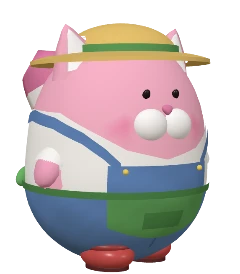
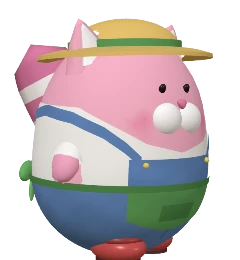
웹 Skia 에러 수정, 핑옹이 걷기 끊김·절뚝임 수정
[웹에서 Skia 에러 (RuntimeEffect / MakeImageFromEncoded) 수정]
- index.web.ts (새 파일): 웹 시작점. Skia 엔진(public/canvaskit.wasm)을 먼저 불러온 뒤 앱(expo-router/entry)을 불러옴. Skia는 처음 불러와질 때 엔진에 묶이므로 _layout에서 불러오면 늦어서 에러가 났음
- index.ts (새 파일): 휴대폰 시작점. 바로 expo-router/entry 실행
- package.json: main을 expo-router/entry → index 로 변경
- src/app/_layout.tsx: 지난번에 넣은 Skia 불러오기 제거, 글꼴만 기다리도록 원래대로
- src/lib/loadSkia.ts, src/lib/loadSkia.web.ts: 삭제 (index.web.ts로 대체)
- src/components/illustrations/SwayingFlower.tsx: 바람 셰이더를 파일 불러올 때가 아니라 처음 그릴 때 한 번만 만들도록 변경

[핑옹이 걷기 끊김 수정]
- src/components/WalkingPingongi.tsx: 이동과 걷기 그림 넘기기를 하나의 Reanimated 시계로 UI 스레드에서 처리 (전에는 그림 넘기기를 JS 타이머로 따로 돌려 박자가 어긋났음)
- src/components/WalkingPingongi.tsx: 출발·도착 감속을 없애고 일정한 속도로 이동 (걸음 속도와 맞지 않아 발이 미끄러져 보였음)
- assets/images/pingong/walk/f00~f29.webp: 걷기 그림 16장 → 30장 (초당 30장)

[핑옹이 절뚝임 수정]
- assets/images/pingong/walk/f00~f29.webp: 다시 렌더. 몸통의 앞뒤·좌우 쏠림과 좌우로 도는 움직임 제거, 30장 모두 머리 위치를 맞춤, 방향 45°, 240×260
- src/components/WalkingPingongi.tsx: 새 그림 비율(260/240)과 크기 배율(1.35)로 조정
- src/components/WalkingPingongi.tsx: 애니메이션 시계를 항상 0부터 다시 시작하고 화면을 떠날 때 멈춤 (코드가 다시 불러와질 때 이전 값에서 이어져 제자리에서 방향만 바뀌던 문제)

Changed region(s): [[0.0583, 0.0615, 0.9042, 1.0], [0.2333, 0.8923, 0.2917, 0.9231], [0.2042, 0.8615, 0.2333, 0.8923]]

diff --git a/src/components/WalkingPingongi.tsx b/src/components/WalkingPingongi.tsx
@@ -1,12 +1,14 @@
 import { Image } from 'expo-image';
-import { useEffect, useRef, useState } from 'react';
-import { StyleSheet, View } from 'react-native';
-import Animated, { Easing, useAnimatedStyle, useSharedValue, withRepeat, withTiming } from 'react-native-reanimated';
+import { useEffect } from 'react';
+import { StyleSheet } from 'react-native';
+import Animated, { cancelAnimation, Easing, SharedValue, useAnimatedStyle, useSharedValue, withRepeat, withTiming } from 'react-native-reanimated';
 
 import { size as sizes } from '@/theme/theme';
 
 /**
- * 걷기 프레임 16장 — 3D 모델(pingong_gc.glb)의 Walk 동작(1초)을 오른쪽 3/4 방향으로 렌더.
+ * 걷기 프레임 30장(초당 30장) — 3D 모델(pingong_gc.glb)의 Walk 동작(1초)을 오른쪽 45° 방향으로 렌더.
+ * 몸통의 앞뒤 쏠림과 좌우로 도는 움직임을 없애고 머리 위치를 프레임마다 맞춰서,
+ * 절뚝이거나 뒤돌아보는 것처럼 보이지 않고 일정하게 걸어 보이게 했어요.
  * 왼쪽으로 걸을 때는 좌우 반전해서 씁니다.
  */
 const FRAMES = [
@@ -26,11 +28,25 @@ const FRAMES = [
   require('../../assets/images/pingong/walk/f13.webp'),
   require('../../assets/images/pingong/walk/f14.webp'),
   require('../../assets/images/pingong/walk/f15.webp'),
+  require('../../assets/images/pingong/walk/f16.webp'),
+  require('../../assets/images/pingong/walk/f17.webp'),
+  require('../../assets/images/pingong/walk/f18.webp'),
+  require('../../assets/images/pingong/walk/f19.webp'),
+  require('../../assets/images/pingong/walk/f20.webp'),
+  require('../../assets/images/pingong/walk/f21.webp'),
+  require('../../assets/images/pingong/walk/f22.webp'),
+  require('../../assets/images/pingong/walk/f23.webp'),
+  require('../../assets/images/pingong/walk/f24.webp'),
+  require('../../assets/images/pingong/walk/f25.webp'),
+  require('../../assets/images/pingong/walk/f26.webp'),
+  require('../../assets/images/pingong/walk/f27.webp'),
+  require('../../assets/images/pingong/walk/f28.webp'),
+  require('../../assets/images/pingong/walk/f29.webp'),
 ];
-/** 프레임 이미지 세로/가로 비율 (240×274) */
-const FRAME_RATIO = 274 / 240;
+/** 프레임 이미지 세로/가로 비율 (240×260) */
+const FRAME_RATIO = 260 / 240;
 /** 프레임에는 몸이 흔들리는 여백이 있어서, 몸 크기가 정원 핑옹이 크기와 비슷해지도록 키우는 배율 */
-const FRAME_SCALE = 1.2;
+const FRAME_SCALE = 1.35;
 /** Walk 동작 한 바퀴 길이(ms) — 모델 원본과 같음 */
 const CLIP_MS = 1000;
 const FRAME_MS = CLIP_MS / FRAMES.length;
@@ -52,35 +68,23 @@ type Props = {
   groundY: number;
 };
 
-/** 지금 시각이 걷는 중인지와 이번 방향에서 지난 시간 */
-function phaseAt(elapsed: number) {
-  const time = elapsed % CYCLE;
-  const goingRight = time < LEG;
-  const legTime = goingRight ? time : time - LEG;
-  return { goingRight, legTime, walking: legTime < WALK_MS };
-}
-
 /**
  * 정원을 좌우로 천천히 걸어다니는 핑옹이.
- * 이동·방향 전환은 Reanimated로, 다리 움직임은 걷기 프레임을 넘겨서 보여줘요.
+ * 이동·방향 전환·프레임 넘기기를 모두 하나의 Reanimated 시계로 UI 스레드에서 처리해서
+ * 자바스크립트가 바빠도 끊기지 않고, 발걸음과 이동이 어긋나지 않아요.
  * 끝에 닿으면 잠깐 서 있다가 돌아서요. 터치는 통과시켜 뒤 식물을 누를 수 있어요.
  */
 export function WalkingPingongi({ width, height, fromX, toX, groundY }: Props) {
   const w = sizes.mascotGarden * FRAME_SCALE;
   const h = w * FRAME_RATIO;
   const t = useSharedValue(0);
-  const start = useRef(0);
-  const [frame, setFrame] = useState(0);
 
   useEffect(() => {
-    start.current = Date.now();
+    // 항상 0부터 다시 시작 — 코드가 다시 불러와질 때 이전 값에서 이어 돌면 제자리에서 방향만 바뀌는 문제가 생김
+    cancelAnimation(t);
+    t.value = 0;
     t.value = withRepeat(withTiming(CYCLE, { duration: CYCLE, easing: Easing.linear }), -1, false);
-    // 걷는 동안만 프레임을 넘기고, 쉬는 동안은 첫 프레임에 멈춰 서 있음
-    const id = setInterval(() => {
-      const { walking, legTime } = phaseAt(Date.now() - start.current);
-      setFrame(walking ? Math.floor(legTime / FRAME_MS) % FRAMES.length : 0);
-    }, FRAME_MS);
-    return () => clearInterval(id);
+    return () => cancelAnimation(t);
   }, [t]);
 
   const left = (fromX / 100) * width - w / 2;
@@ -91,19 +95,33 @@ export function WalkingPingongi({ width, height, fromX, toX, groundY }: Props) {
     const goingRight = time < LEG;
     const legTime = goingRight ? time : time - LEG;
     const p = legTime < WALK_MS ? legTime / WALK_MS : 1; // 이번 방향 진행률 0~1
-    const eased = p < 0.5 ? 2 * p * p : 1 - Math.pow(-2 * p + 2, 2) / 2; // 출발·도착 때 천천히
-    const x = (goingRight ? eased : 1 - eased) * span;
+    // 발걸음 속도가 일정하므로 이동도 일정한 속도로 (속도가 변하면 발이 미끄러져 보임)
+    const x = (goingRight ? p : 1 - p) * span;
     return { transform: [{ translateX: x }, { scaleX: goingRight ? 1 : -1 }] };
   });
 
   return (
     <Animated.View style={[styles.wrap, { left, top: (groundY / 100) * height - h, width: w, height: h }, style]}>
-      {/* 16장을 모두 겹쳐 두고 지금 프레임만 보이게 — 이미지를 바꿔 끼울 때 깜빡이지 않도록 */}
+      {/* 프레임을 모두 겹쳐 두고 지금 프레임만 보이게 — 이미지를 바꿔 끼울 때 깜빡이지 않도록 */}
       {FRAMES.map((src, i) => (
-        <View key={i} style={[StyleSheet.absoluteFill, { opacity: i === frame ? 1 : 0 }]}>
-          <Image source={src} style={styles.fill} contentFit="contain" accessibilityLabel={i === 0 ? '걷고 있는 핑옹이' : undefined} />
-        </View>
+        <FrameLayer key={i} index={i} source={src} t={t} />
       ))}
+    </Animated.View>
+  );
+}
+
+/** 프레임 한 장 — 지금 보여줄 차례일 때만 불투명 (UI 스레드에서 계산) */
+function FrameLayer({ index, source, t }: { index: number; source: number; t: SharedValue<number> }) {
+  const style = useAnimatedStyle(() => {
+    const time = t.value % CYCLE;
+    const legTime = time < LEG ? time : time - LEG;
+    // 걷는 동안만 프레임을 넘기고, 쉬는 동안은 첫 프레임으로 서 있음
+    const current = legTime < WALK_MS ? Math.floor(legTime / FRAME_MS) % FRAMES.length : 0;
+    return { opacity: current === index ? 1 : 0 };
+  });
+  return (
+    <Animated.View style={[StyleSheet.absoluteFill, style]}>
+      <Image source={source} style={styles.fill} contentFit="contain" accessibilityLabel={index === 0 ? '걷고 있는 핑옹이' : undefined} />
     </Animated.View>
   );
 }

diff --git a/src/components/illustrations/SwayingFlower.tsx b/src/components/illustrations/SwayingFlower.tsx
@@ -22,7 +22,8 @@ import { useDerivedValue } from 'react-native-reanimated';
  *    이미지를 작게 줄여 넣어도 값은 그대로 둡니다)
  */
 
-const wind = Skia.RuntimeEffect.Make(`
+/** 바람 셰이더 소스 — 웹에서는 Skia 엔진이 준비된 뒤에야 만들 수 있어서, 처음 쓸 때 한 번만 만들어요 */
+const WIND_SKSL = `
 uniform shader image;
 uniform float t;      // 시간(초)
 uniform float baseY;  // 뿌리 높이(px)
@@ -38,7 +39,12 @@ half4 main(float2 p) {
   float dy = -abs(dx) * 0.04 * h;
   return image.eval(float2(p.x - dx, p.y - dy));
 }
-`)!;
+`;
+let windEffect: ReturnType<typeof Skia.RuntimeEffect.Make> = null;
+function getWind() {
+  if (!windEffect) windEffect = Skia.RuntimeEffect.Make(WIND_SKSL);
+  return windEffect!;
+}
 
 export type FlowerName = 'lavender' | 'cornflower' | 'anemone' | 'marigold' | 'peony';
 export type FlowerStage = 1 | 2 | 3;
@@ -109,7 +115,7 @@ export function SwayingFlower({ flower, stage, size, strength = 1, speed = 1 }: 
           <Group transform={[{ scale }]}>
             <Image image={soil} x={0} y={0} width={s.w} height={s.h} fit="fill" />
             <Rect x={0} y={0} width={s.w} height={s.h}>
-              <Shader source={wind} uniforms={uniforms}>
+              <Shader source={getWind()} uniforms={uniforms}>
                 <ImageShader image={plant} fit="fill" rect={{ x: 0, y: 0, width: s.w, height: s.h }} tx="decal" ty="decal" />
               </Shader>
             </Rect>

diff --git a/src/app/_layout.tsx b/src/app/_layout.tsx
@@ -2,11 +2,10 @@ import { useFonts } from 'expo-font';
 import { Stack } from 'expo-router';
 import * as SplashScreen from 'expo-splash-screen';
 import { StatusBar } from 'expo-status-bar';
-import { useEffect, useState } from 'react';
+import { useEffect } from 'react';
 
 import { AuthProvider } from '@/lib/auth';
 import { GardenProvider } from '@/lib/garden';
-import { loadSkia } from '@/lib/loadSkia';
 import { ToastProvider } from '@/lib/toast';
 import { fontAssets } from '@/theme/fonts';
 import { neutral } from '@/theme/theme';
@@ -15,20 +14,13 @@ SplashScreen.preventAutoHideAsync().catch(() => {});
 
 export default function RootLayout() {
   const [loaded, error] = useFonts(fontAssets);
-  const [skiaReady, setSkiaReady] = useState(false);
-
-  useEffect(() => {
-    // 실패해도 앱은 열리도록 (흔들리는 꽃만 안 보임)
-    loadSkia().catch(() => {}).finally(() => setSkiaReady(true));
-  }, []);
-
-  const ready = (loaded || !!error) && skiaReady;
+  const ready = loaded || !!error;
 
   useEffect(() => {
     if (ready) SplashScreen.hideAsync().catch(() => {});
   }, [ready]);
 
-  // 글꼴과 (웹의) Skia 엔진이 준비될 때까지 스플래시 유지
+  // 글꼴이 준비될 때까지 스플래시 유지
   if (!ready) return null;
 
   return (

diff --git a/index.web.ts b/index.web.ts
@@ -1,0 +1,10 @@
+import { LoadSkiaWeb } from '@shopify/react-native-skia/lib/module/web';
+
+/**
+ * 웹 시작점. Skia는 처음 불러와지는 순간 CanvasKit 엔진에 묶이기 때문에,
+ * 엔진(public/canvaskit.wasm)을 먼저 불러온 뒤에 앱 코드를 불러와요.
+ * 엔진을 못 불러와도 앱은 열려요 (흔들리는 꽃만 안 보임).
+ */
+LoadSkiaWeb({ locateFile: (file: string) => `/${file}` })
+  .catch(() => {})
+  .then(() => require('expo-router/entry'));

diff --git a/index.ts b/index.ts
@@ -1,0 +1,2 @@
+// 앱 시작점. 휴대폰에서는 Skia가 이미 들어 있어서 바로 시작해요. (웹은 index.web.ts)
+import 'expo-router/entry';
